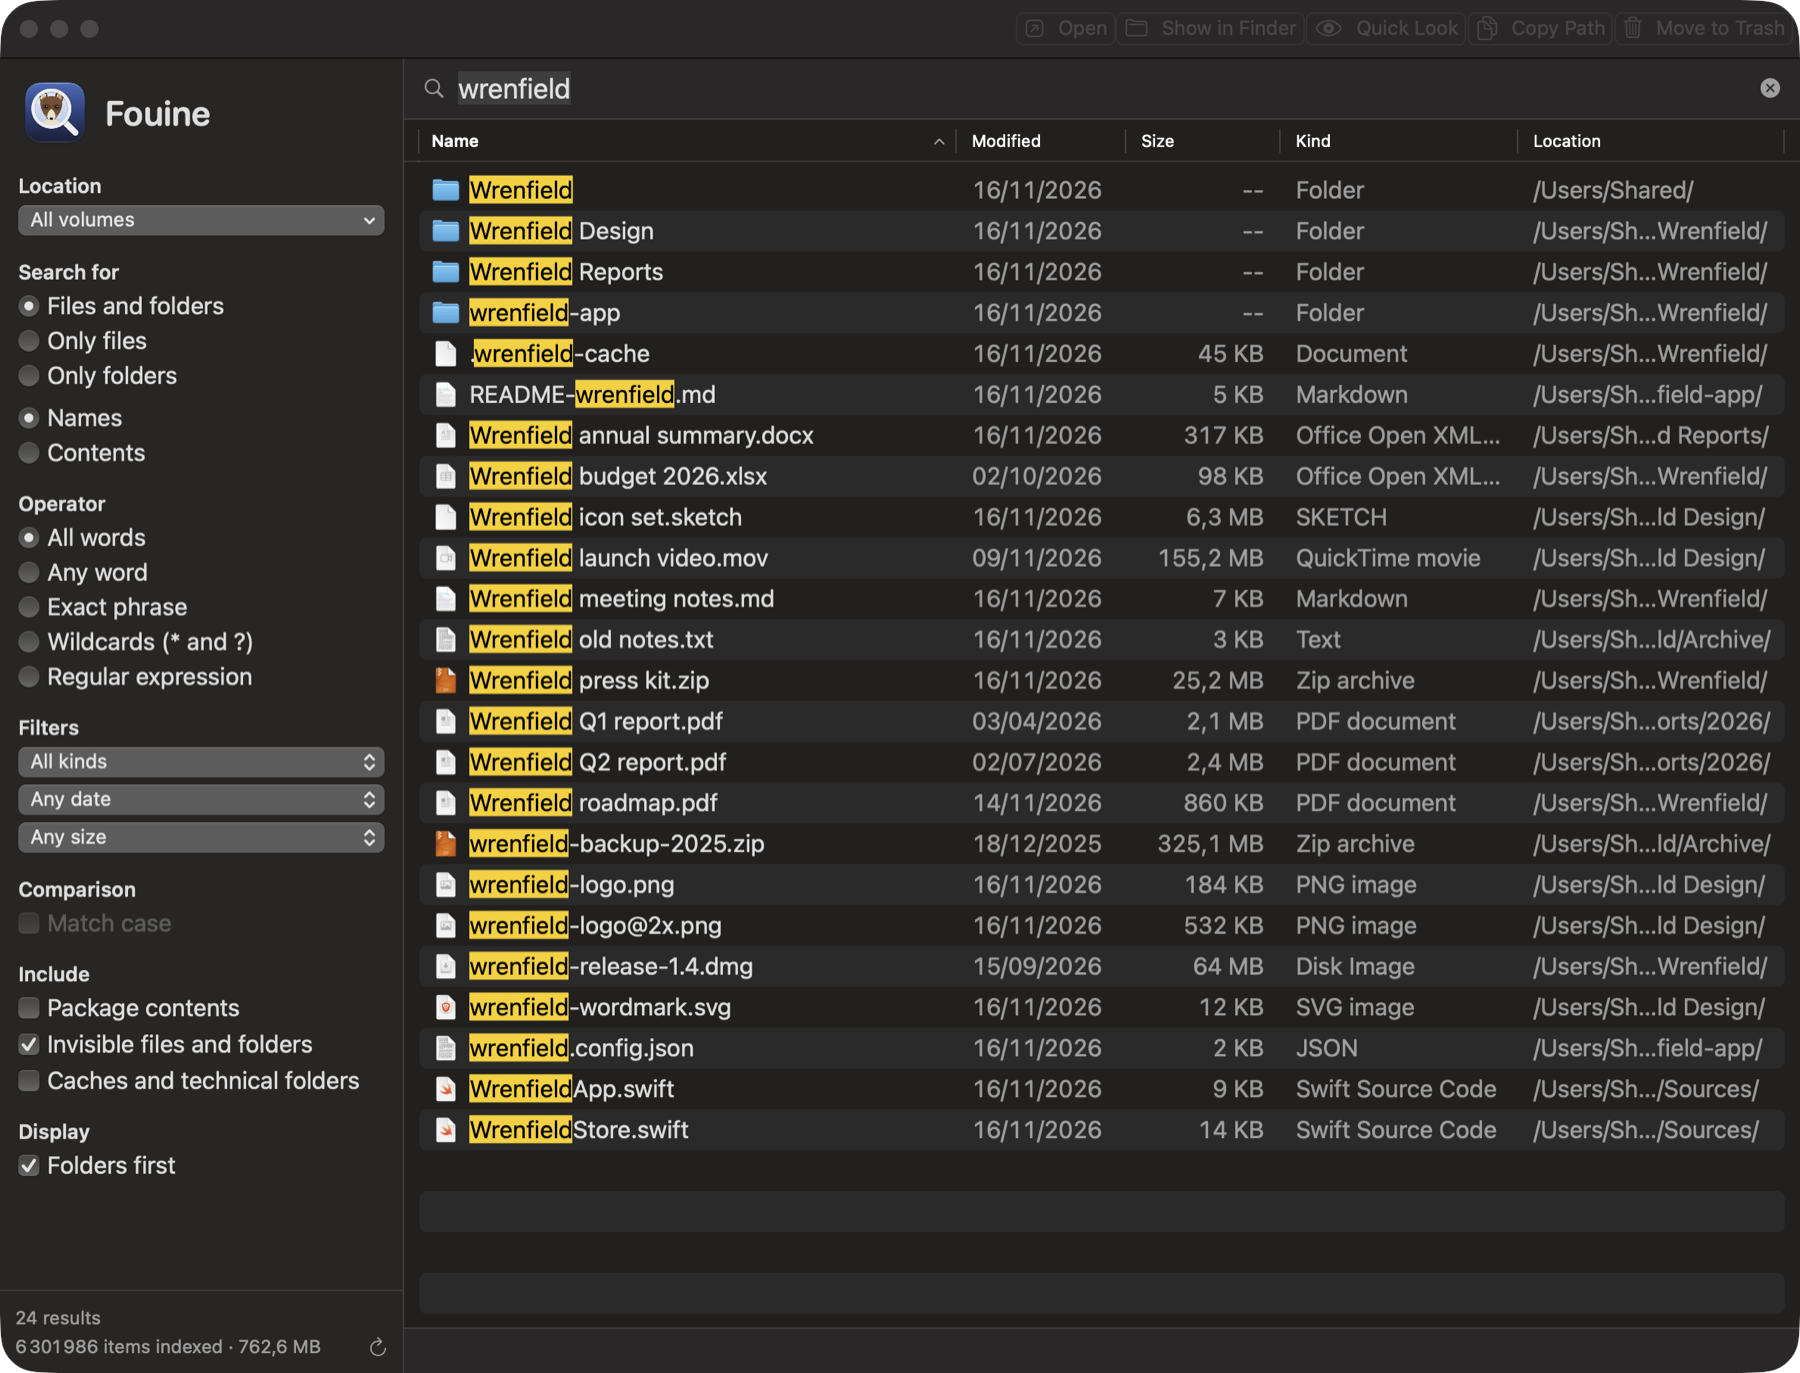
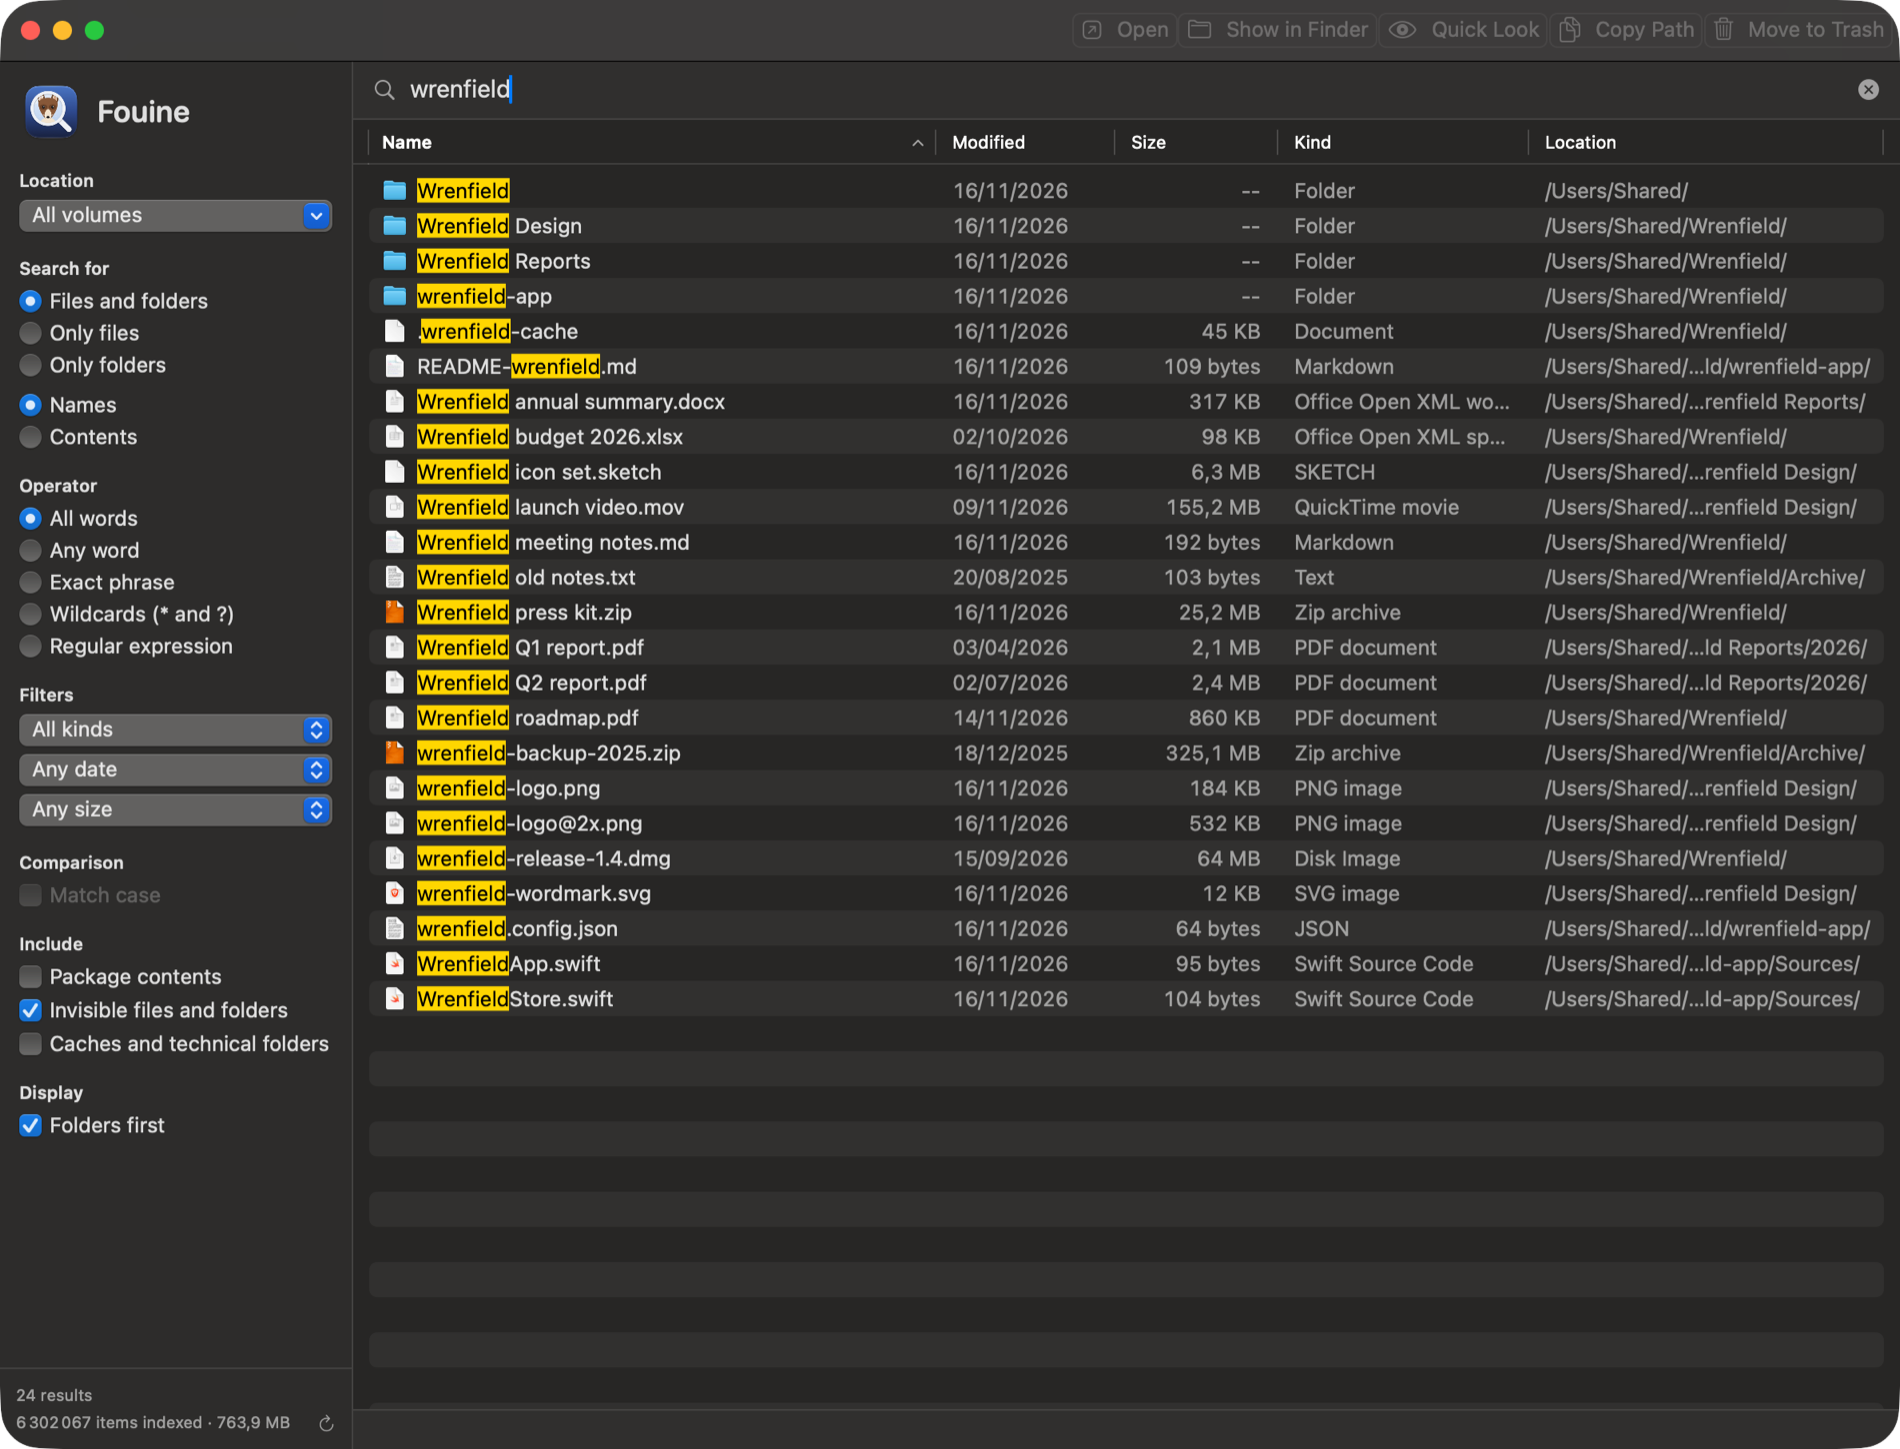
Add demo arguments, a demo data script and detailed screenshots

diff --git a/Sources/Fouine/SearchModel.swift b/Sources/Fouine/SearchModel.swift
@@ -89,6 +89,7 @@ final class SearchModel: ObservableObject {
             }
         }
         refreshVolumes()
+        applyDemoArguments()
         let center = NSWorkspace.shared.notificationCenter
         for name in [NSWorkspace.didMountNotification, NSWorkspace.didUnmountNotification] {
             center.addObserver(forName: name, object: nil, queue: .main) { [weak self] _ in
@@ -328,6 +329,34 @@ final class SearchModel: ObservableObject {
     }
 
     /// `path == nil` avec `bootOnly` désigne le volume de démarrage ; sans, tout le disque.
+    /// Captures d'écran du README : les arguments de lancement règlent la recherche à montrer,
+    /// sans clic. `-demoScope` limite la recherche au dossier créé par `outils/demo.sh`, les
+    /// autres reprennent le nom des cas : `-demoTarget content`, `-demoKind folders`,
+    /// `-demoOperator regex`, `-demoType documents`, `-demoDate year`, `-demoSize mb1`,
+    /// puis `-demoQuery <texte>` lance la recherche.
+    private func applyDemoArguments() {
+        let d = UserDefaults.standard
+        func pick<T: CaseIterable>(_ key: String, _ type: T.Type) -> T? {
+            guard let wanted = d.string(forKey: key) else { return nil }
+            return T.allCases.first { String(describing: $0) == wanted }
+        }
+        guard d.string(forKey: "demoQuery") != nil || d.string(forKey: "demoScope") != nil else { return }
+        DispatchQueue.main.asyncAfter(deadline: .now() + 1.5) { [weak self] in
+            guard let self else { return }
+            if let scope = d.string(forKey: "demoScope") { self.setScope(scope) }
+            if let v = pick("demoTarget", SearchTarget.self) { self.target = v }
+            if let v = pick("demoKind", SearchKind.self) { self.kind = v }
+            if let v = pick("demoOperator", SearchOperator.self) { self.op = v }
+            if let v = pick("demoType", TypeFilter.self) { self.typeFilter = v }
+            if let v = pick("demoDate", DateFilter.self) { self.dateFilter = v }
+            if let v = pick("demoSize", SizeFilter.self) { self.sizeFilter = v }
+            if let query = d.string(forKey: "demoQuery") {
+                self.query = query
+                self.submit()
+            }
+        }
+    }
+
     func setScope(_ path: String?, bootOnly: Bool = false) {
         bootVolumeOnly = bootOnly
         scope = path

diff --git a/README.md b/README.md
@@ -20,6 +20,8 @@ pokes their nose everywhere.
 
 ![Fouine — every file and folder matching a name, across all volumes](docs/screenshot-main.png)
 
+
+
 ### Support the project
 Free and open-source 🙂 — if you feel like it, buy me a few tokens:
 
@@ -75,7 +77,13 @@ Spotlight is described here as it ships and is searched from its own window or f
 - **Search for** files and folders, only files, or only folders
 - The matched terms are **highlighted** in each name
 
-![Fouine — a wildcard search, with the path bar showing where the selected file lives](docs/screenshot-wildcards.png)
+![Fouine — a wildcard search](docs/screenshot-wildcards.png)
+
+![Fouine — a regular expression matching two image formats](docs/screenshot-regex.png)
+
+![Fouine — folders only](docs/screenshot-folders.png)
+
+
 
 ### Contents
 
@@ -84,6 +92,9 @@ Spotlight is described here as it ships and is searched from its own window or f
 - Optional **Match case**
 - Cloud files that aren't downloaded are skipped, so a search never triggers a download
 - A search can be stopped at any moment; what was found stays in the list
+
+![Fouine — a content search limited to one folder](docs/screenshot-contents.png)
+
 
 ### Location
 
@@ -102,6 +113,9 @@ Spotlight is described here as it ships and is searched from its own window or f
   `.git`, build folders and the volumes' own Spotlight stores are left out of the index. The
   folders themselves are still found. They churn constantly and were most of the background
   work; ticking the box rebuilds the index with them
+
+![Fouine — documents larger than 1 MB, two filters combined](docs/screenshot-filters.png)
+
 
 ## The index
 
@@ -164,6 +178,9 @@ folders (`/private/tmp`, `/private/var/folders`) are left out too.
 - **Updates itself** through [Sparkle](https://sparkle-project.org): new versions are downloaded
   from this repository's releases and checked against an EdDSA signature before they are installed
 
+![Fouine — the About window](docs/screenshot-about.png)
+
+
 ## Install
 
 1. Download `Fouine-x.y.z.zip` from the [latest release](https://github.com/blckdvc/Fouine/releases/latest)
@@ -201,6 +218,8 @@ build. To pick the certificate:
 ```bash
 IDENTITE="Developer ID Application: Your Name" ./build.sh
 ```
+
+For screenshots, `./outils/demo.sh` creates an invented project in `/Users/Shared` (and `./outils/demo.sh remove` deletes it), and launch arguments set the search to show without a click: `-demoScope <folder>`, `-demoTarget content`, `-demoKind folders`, `-demoOperator regex`, `-demoType documents`, `-demoSize mb1`, then `-demoQuery <text>`.
 
 The icon is drawn by a script. To change it, edit `outils/icone.swift`, then:
 
@@ -247,4 +266,4 @@ update can be published for the copies already out there.
 | `Sources/Fouine/FouineApp.swift` | Window, menus, About, menu bar, Sparkle |
 | `Sources/Fouine/Localisation.swift` | Text in the system language |
 | `Resources/` | `Info.plist`, translations, icon |
-| `outils/` | The icon's drawing script |
+| `outils/` | The icon's drawing script and the demo data script |
